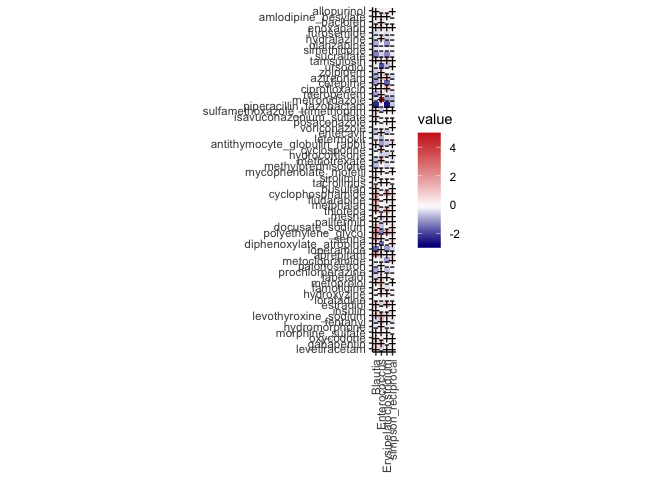
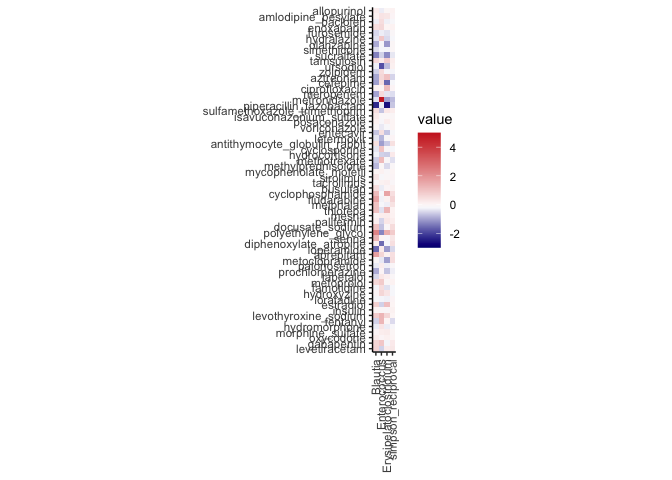
Update Figure 3c and S4.

Changed region(s): [[0.5312, 0.0, 0.5938, 0.75]]

diff --git a/RMD/example_Fig3/paradigm_example_Fig3_bc.md b/RMD/example_Fig3/paradigm_example_Fig3_bc.md
@@ -1,7 +1,7 @@
 ---
 title: 'PARADIGM example: Figure 3b-c'
 author: "Chi L. Nguyen"
-date: "2022-12-01"
+date: "2022-12-04"
 output:
   html_document:
     keep_md: yes
@@ -802,9 +802,6 @@ The 'response_score_feature_aggregate' table contains bacteria response score va
 ```r
 drug_level = rownames(drug_group_annotation)
 response_score_feature_aggregate_to_plot = melt(response_score_feature_aggregate, id = "exposure_name")
-response_score_feature_aggregate_to_plot = response_score_feature_aggregate_to_plot %>% 
-  mutate(sign_coef = case_when(value < 0 ~ "-", 
-                               TRUE ~ "+"))
 
 ggplot(data = response_score_feature_aggregate_to_plot, 
        aes(x=variable, y=factor(exposure_name, levels = rev(drug_level)), fill=value )) +
@@ -812,7 +809,6 @@ ggplot(data = response_score_feature_aggregate_to_plot,
   theme(plot.title=element_text(size=16,face="bold"),
         axis.title.y=element_blank(),
         axis.ticks.y=element_blank()) +
-  geom_text(aes(label = sign_coef), color = "black", size = 4) +
   coord_flip() + coord_fixed() +
   scale_fill_gradientn(colours = colorRampPalette(c("navy", "white", "firebrick3"), bias = 1.5)(30), 
                        limits = c(-3, 5), breaks = seq(-2,4,by=2)) + 
@@ -839,7 +835,6 @@ ggplot(data = response_score_feature_aggregate_to_plot_main20,
   theme(plot.title=element_text(size=16,face="bold"),
         axis.title.y=element_blank(),
         axis.ticks.y=element_blank()) +
-  geom_text(aes(label = sign_coef), color = "black", size = 4) +
   coord_flip() + coord_fixed() +
   scale_fill_gradientn(colours = colorRampPalette(c("navy", "white", "firebrick3"), bias = 1.5)(30), 
                        limits = c(-3, 5), breaks = seq(-2,4,by=2)) + 
